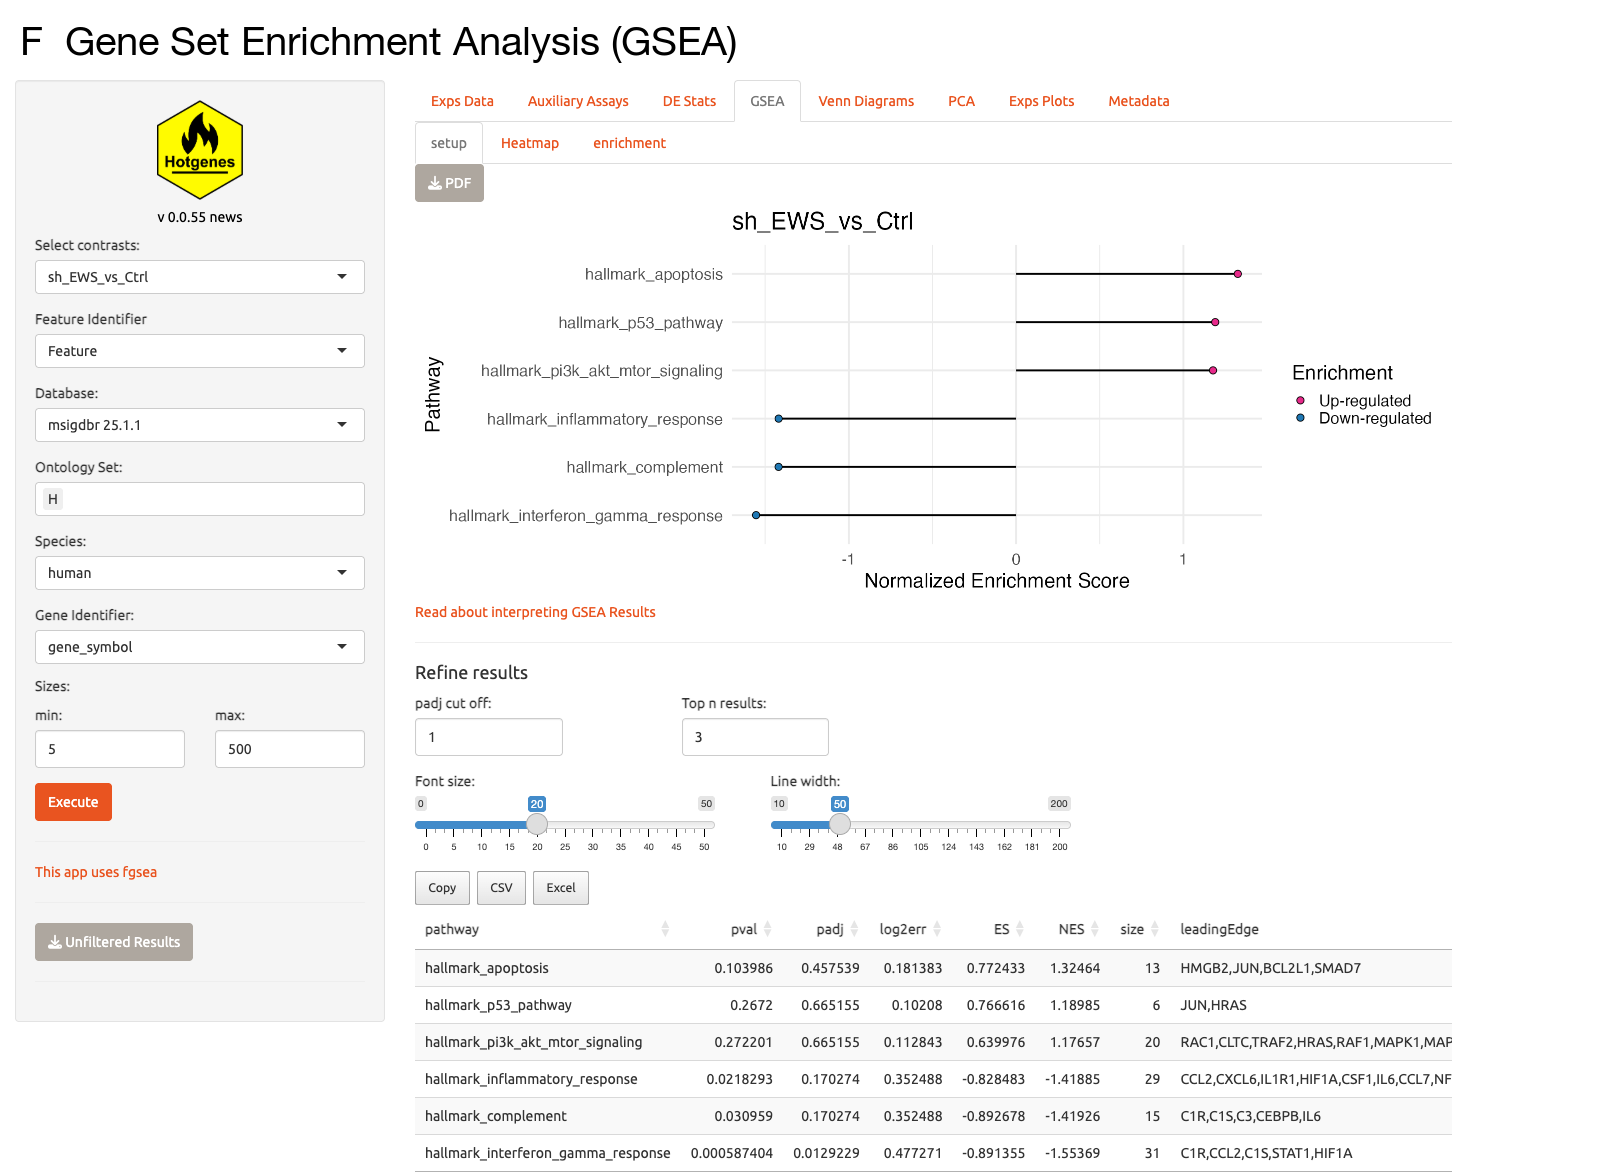
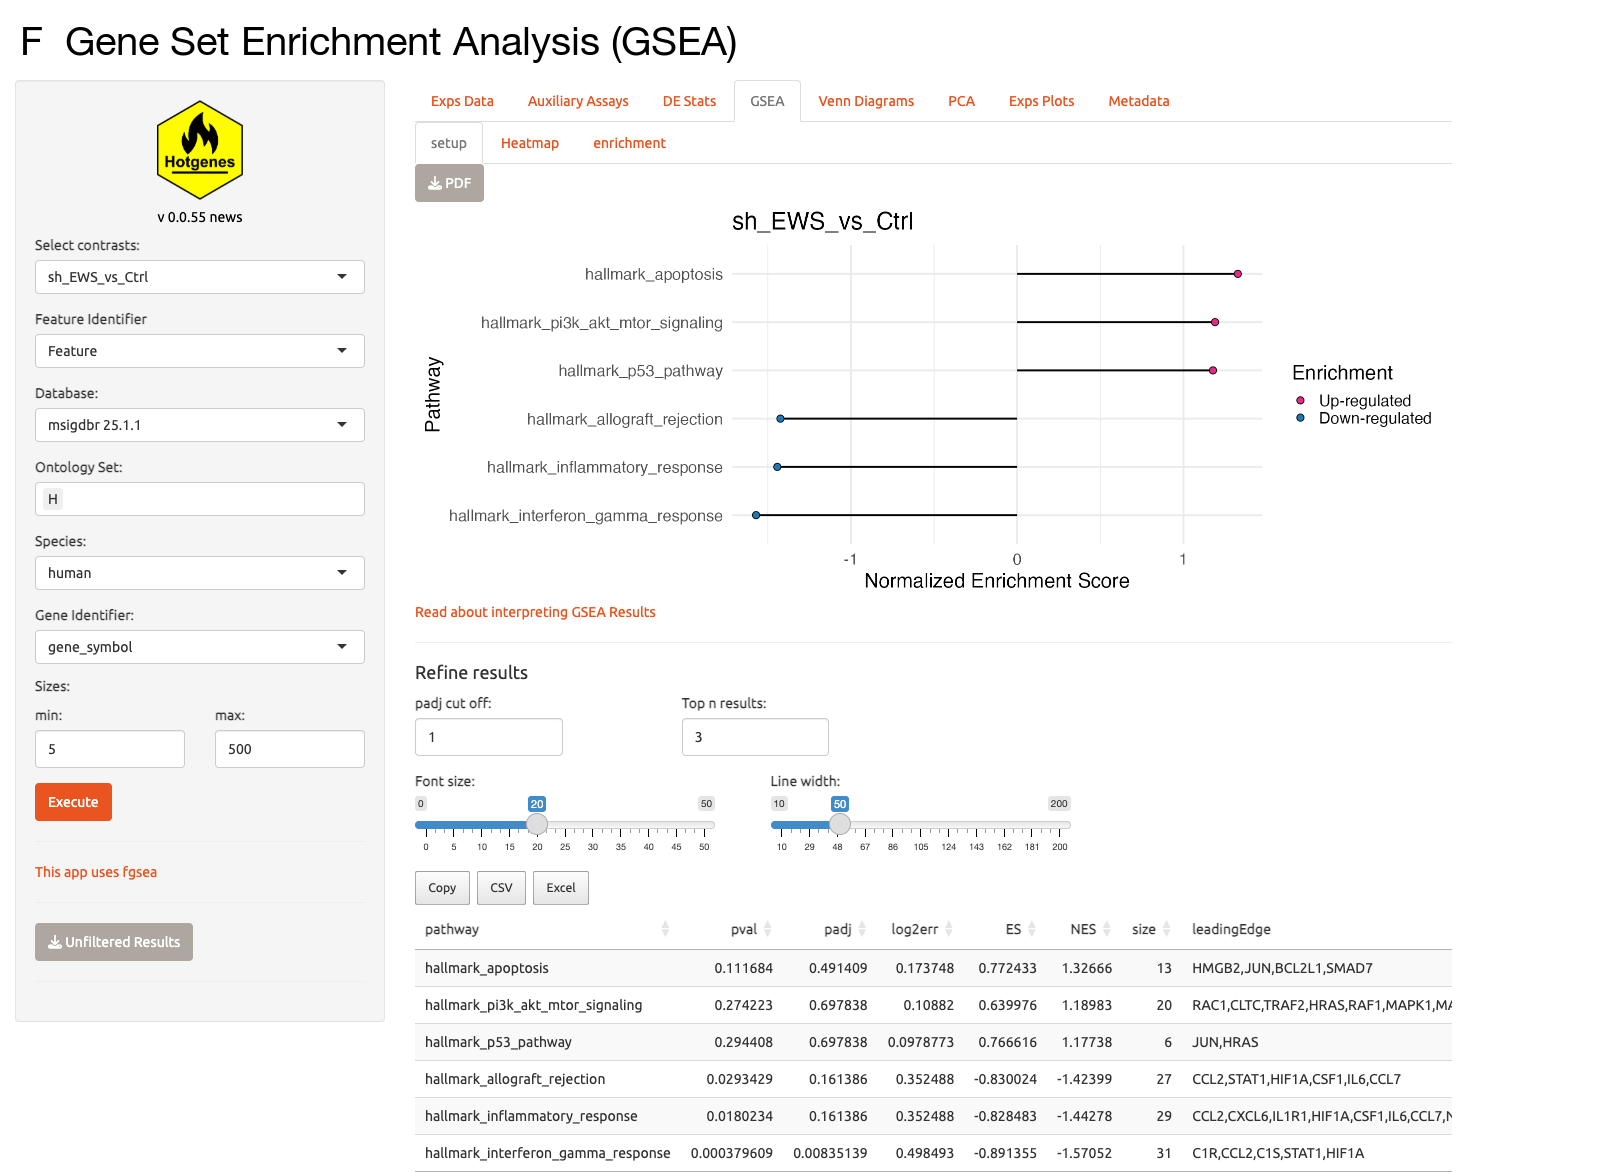
minor

diff --git a/vignettes/04_Interactive_Exploration_Shiny.md b/vignettes/04_Interactive_Exploration_Shiny.md
@@ -414,14 +414,14 @@ Out_GSEA |>
 ## # A tibble: 8 × 9
 ##   pathway                                 pval    padj log2err     ES   NES  size leadingEdge sign_NES
 ##   <chr>                                  <dbl>   <dbl>   <dbl>  <dbl> <dbl> <int> <list>         <dbl>
-## 1 hallmark_apical_junction           0.0546    1.74e-1   0.266  0.733  1.46     6 <chr [3]>          1
-## 2 hallmark_apoptosis                 0.0604    1.74e-1   0.262  0.548  1.46    17 <chr [5]>          1
-## 3 hallmark_il6_jak_stat3_signaling   0.0550    1.74e-1   0.266 -0.530 -1.46    24 <chr [13]>        -1
-## 4 hallmark_allograft_rejection       0.0149    6.85e-2   0.381 -0.474 -1.55    54 <chr [22]>        -1
-## 5 hallmark_interferon_alpha_response 0.00375   2.15e-2   0.432 -0.736 -1.75    14 <chr [8]>         -1
-## 6 hallmark_inflammatory_response     0.000771  8.06e-3   0.477 -0.580 -1.81    43 <chr [20]>        -1
-## 7 hallmark_complement                0.00105   8.06e-3   0.455 -0.708 -1.85    20 <chr [9]>         -1
-## 8 hallmark_interferon_gamma_response 0.0000120 2.77e-4   0.593 -0.700 -2.14    37 <chr [16]>        -1
+## 1 hallmark_apical_junction             5.81e-2 1.86e-1   0.266  0.733  1.51     6 <chr [3]>          1
+## 2 hallmark_apoptosis                   5.49e-2 1.86e-1   0.277  0.548  1.46    17 <chr [5]>          1
+## 3 hallmark_il6_jak_stat3_signaling     6.48e-2 1.86e-1   0.245 -0.530 -1.47    24 <chr [13]>        -1
+## 4 hallmark_allograft_rejection         2.23e-2 1.03e-1   0.352 -0.474 -1.54    54 <chr [22]>        -1
+## 5 hallmark_interferon_alpha_response   6.72e-3 3.87e-2   0.407 -0.736 -1.76    14 <chr [8]>         -1
+## 6 hallmark_inflammatory_response       2.46e-3 1.89e-2   0.432 -0.580 -1.81    43 <chr [20]>        -1
+## 7 hallmark_complement                  1.54e-3 1.77e-2   0.455 -0.708 -1.88    20 <chr [9]>         -1
+## 8 hallmark_interferon_gamma_response   5.54e-6 1.28e-4   0.611 -0.700 -2.11    37 <chr [16]>        -1
 ```
 
 ``` r
